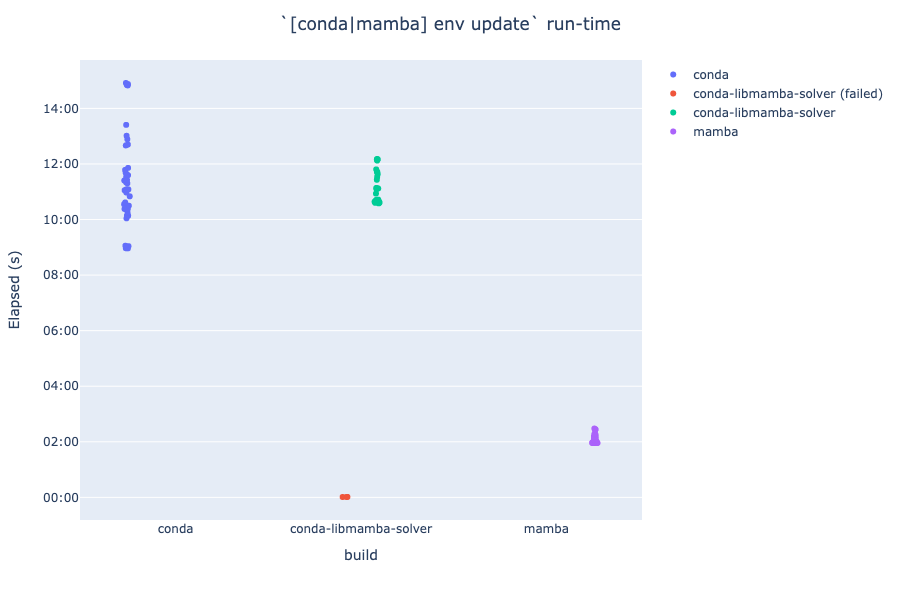
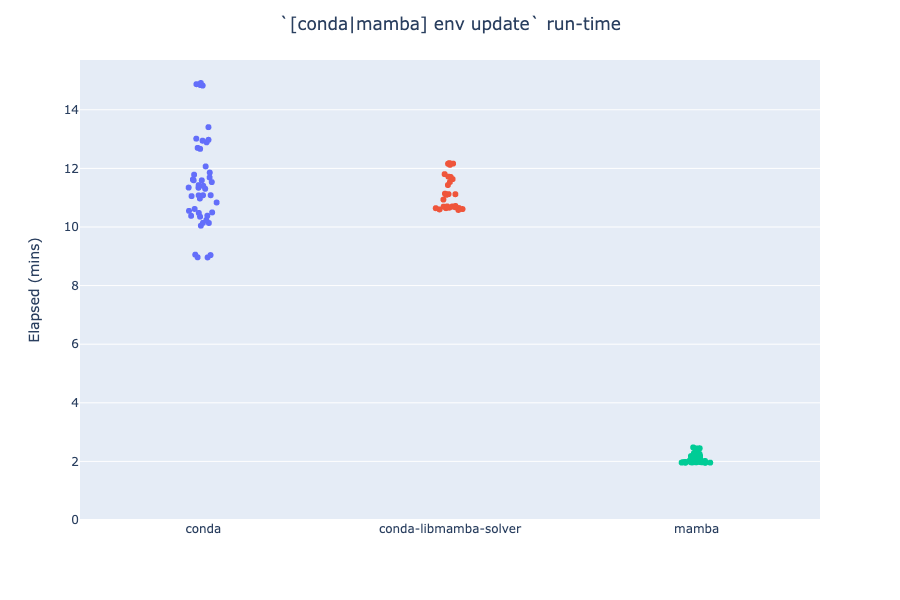
simplify initial setup installs, update docs re: installation failures

diff --git a/README.md b/README.md
@@ -8,7 +8,7 @@ Elapsed time to run `[conda|mamba] env update` on [`environment.yml`](environmen
 
 ![](run-times.png)
 
-(taken from [these][mamba run] [three][conda run] [runs][combined run] in GitHub Actions)
+(taken from [these][mamba run] [five][conda run] [runs][combined run] [in][combined run - ubuntu] [GitHub][conda-only defaults run] Actions)
 
 ## Dockerfiles
 The above uses three similar Dockerfiles:
@@ -25,22 +25,22 @@ Diffs between the Dockerfiles:
 <details><summary><code>diff conda.dockerfile conda-libmamba-solver.dockerfile</code></summary>
 
 ```diff
-18c18,19
-< RUN time conda install -q -y -n base -c conda-forge conda==23.3.1 python==3.9.12 \
----
-> RUN time conda install -q -y -n base -c conda-forge conda==23.3.1 python==3.9.12 conda-libmamba-solver \
+17a18,21
+> RUN time conda install -q -y -n base conda-libmamba-solver \
 >  && conda config --set solver libmamba \
+>  && conda clean -afy
+>
 ```
 </details>
 
 <details><summary><code>diff conda.dockerfile mamba.dockerfile</code></summary>
 
 ```diff
-18c18
-< RUN time conda install -q -y -n base -c conda-forge conda==23.3.1 python==3.9.12 \
----
-> RUN time conda install -q -y -n base -c conda-forge conda==23.3.1 python==3.9.12 mamba \
-22c22
+17a18,20
+> RUN time conda install -q -y -n base -c conda-forge mamba \
+>  && conda clean -afy
+>
+19c22
 < RUN time conda env update -q -v -n base
 ---
 > RUN time mamba env update -q -v -n base
@@ -48,20 +48,9 @@ Diffs between the Dockerfiles:
 </details>
 
 ## Discussion
-I thought `conda` with `conda-libmamba-solver` would be a drop-in replacement for the `mamba` CLI. However I'm seeing the `mamba` CLI finish in ≈2mins, while `conda` with `conda-libmamba-solver` takes 10-12mins. I also observed a corrupted/unusable install 30% of the time I ran `conda install … conda-libmamba-solver`.
-
-### Corrupted `conda-libmamba-solver` installs
-In 3 of 10 attempts at installing and configuring `conda-libmamba-solver`, something went wrong during the `conda install … conda-libmamba-solver` step. The subsequent `conda env update` prints this before failing:
-```
-Could not load conda plugin `conda-libmamba-solver`:
-
-libarchive.so.19: cannot open shared object file: No such file or directory
-Could not load conda plugin `conda-libmamba-solver`:
-
-libarchive.so.19: cannot open shared object file: No such file or directory
-Will remove 1 package cache(s).
-```
-([example 1](https://github.com/runsascoded/libmamba-solver-test/actions/runs/4969272579/jobs/8892339145#step:3:499), [example 2](https://github.com/runsascoded/libmamba-solver-test/actions/runs/4969272579/jobs/8892339290#step:3:499), [example 3](https://github.com/runsascoded/libmamba-solver-test/actions/runs/4970360885/jobs/8894183945#step:3:499))
+I thought `conda` with `conda-libmamba-solver` would be a drop-in replacement for the `mamba` CLI. However:
+- the `mamba` CLI finishes in ≈2mins, while `conda` with `conda-libmamba-solver` takes 10-12mins.
+- I've observed a corrupted/unusable install in 5 of 15 runs of `conda install … conda-libmamba-solver`.
 
 ### Verifying `conda-libmamba-solver` installation/configuration
 I believe I installed and configured `conda-libmamba-solver` correctly, according to the instructions in [the launch blog post][conda-libmamba-solver blog] and ["Getting Started" guide][conda-libmamba-solver getting-started]:
@@ -73,7 +62,7 @@ RUN time conda install -q -y -n base -c conda-forge conda==23.3.1 python==3.9.12
 (cf. [`conda-libmamba-solver.dockerfile#L18-20`](conda-libmamba-solver.dockerfile#L18-20))
 
 #### `conda-libmamba-solver` version emits `libmamba` blocks every 10s
-When it doesn't fail, the `conda-libmamba-solver` version appears to be using `libmamba`, as expected. Most of the elapsed time is spent outputting blocks like this, every 10s ([example][combined run conda-libmamba-solver job 1]):
+The `conda-libmamba-solver` version appears to be using `libmamba`, as expected. Most of the elapsed time is spent outputting blocks like this, every 10s ([example][combined run conda-libmamba-solver job 1]):
 <details><summary><code>2023-05-14T03:52:49</code> (215 lines)</summary>
 
 ```
@@ -754,8 +743,46 @@ info libmamba Adding job: umap-learn 0.5.2
 ```
 </details>
 
-#### `classic` version doesn't reference `libmamba`
+#### `classic` version doesn't reference `libmamba` (as expected)
 The plain `conda` (`classic` solver) jobs don't reference `libmamba`, as expected ([example][combined run conda job 1]), seemingly ruling out that I'm inadvertently just running with the `classic` solver when I mean to be using `conda-libmamba-solver`.
+
+### Aside: `-c conda-forge` corrupts `conda-libmamba-solver` install 1/3 of the time
+Separately, in some of my tests, I installed `conda-libmamba-solver` alongside `python` and `conda` pins, and included `-c conda-forge`:
+
+```bash
+conda install -q -y -n base -c conda-forge conda==23.3.1 python==3.9.12 conda-libmamba-solver
+```
+
+In 5 of 15 such attempts, something went wrong during the `conda install … conda-libmamba-solver` step. The subsequent `conda env update` printed this before failing:
+```
+Could not load conda plugin `conda-libmamba-solver`:
+
+libarchive.so.19: cannot open shared object file: No such file or directory
+WARNING conda.plugins.manager:load_entrypoints(84): Could not load conda plugin `conda-libmamba-solver`:
+
+libarchive.so.19: cannot open shared object file: No such file or directory
+Traceback (most recent call last):
+  File "/opt/conda/lib/python3.9/site-packages/conda/exceptions.py", line 1132, in __call__
+    return func(*args, **kwargs)
+  File "/opt/conda/lib/python3.9/site-packages/conda_env/cli/main.py", line 78, in do_call
+    exit_code = getattr(module, func_name)(args, parser)
+  File "/opt/conda/lib/python3.9/site-packages/conda/notices/core.py", line 121, in wrapper
+    return func(*args, **kwargs)
+  File "/opt/conda/lib/python3.9/site-packages/conda_env/cli/main_update.py", line 131, in execute
+    result[installer_type] = installer.install(prefix, specs, args, env)
+  File "/opt/conda/lib/python3.9/site-packages/conda_env/installers/conda.py", line 50, in install
+    solver = _solve(prefix, specs, args, env, *_, **kwargs)
+  File "/opt/conda/lib/python3.9/site-packages/conda_env/installers/conda.py", line 33, in _solve
+    solver_backend = context.plugin_manager.get_cached_solver_backend()
+  File "/opt/conda/lib/python3.9/site-packages/conda/plugins/manager.py", line 149, in get_solver_backend
+    raise CondaValueError(
+conda.exceptions.CondaValueError: You have chosen a non-default solver backend (libmamba) but it was not recognized. Choose one of: classic
+
+Command exited with non-zero status 1
+```
+
+([example 1](https://github.com/runsascoded/libmamba-solver-test/actions/runs/4969272579/jobs/8892339145#step:3:499), [example 2](https://github.com/runsascoded/libmamba-solver-test/actions/runs/4969272579/jobs/8892339290#step:3:499), [example 3](https://github.com/runsascoded/libmamba-solver-test/actions/runs/4970360885/jobs/8894183945#step:3:499), [example 4](https://github.com/runsascoded/libmamba-solver-test/actions/runs/4972844135/jobs/8898304725#step:3:495), [example 5](https://github.com/runsascoded/libmamba-solver-test/actions/runs/4972844135/jobs/8898304791#step:3:495))
+
 
 
 [mamba run]: https://github.com/runsascoded/libmamba-solver-test/actions/runs/4969272579/jobs/8892339175
@@ -765,3 +792,5 @@ The plain `conda` (`classic` solver) jobs don't reference `libmamba`, as expecte
 [combined run conda job 1]: https://github.com/runsascoded/libmamba-solver-test/actions/runs/4970360885/jobs/8894184089
 [conda-libmamba-solver blog]: https://www.anaconda.com/blog/a-faster-conda-for-a-growing-community
 [conda-libmamba-solver getting-started]: https://conda.github.io/conda-libmamba-solver/getting-started/
+[combined run - ubuntu]: https://github.com/runsascoded/libmamba-solver-test/actions/runs/4972844135
+[conda-only defaults run]: https://github.com/runsascoded/libmamba-solver-test/actions/runs/4972941899
